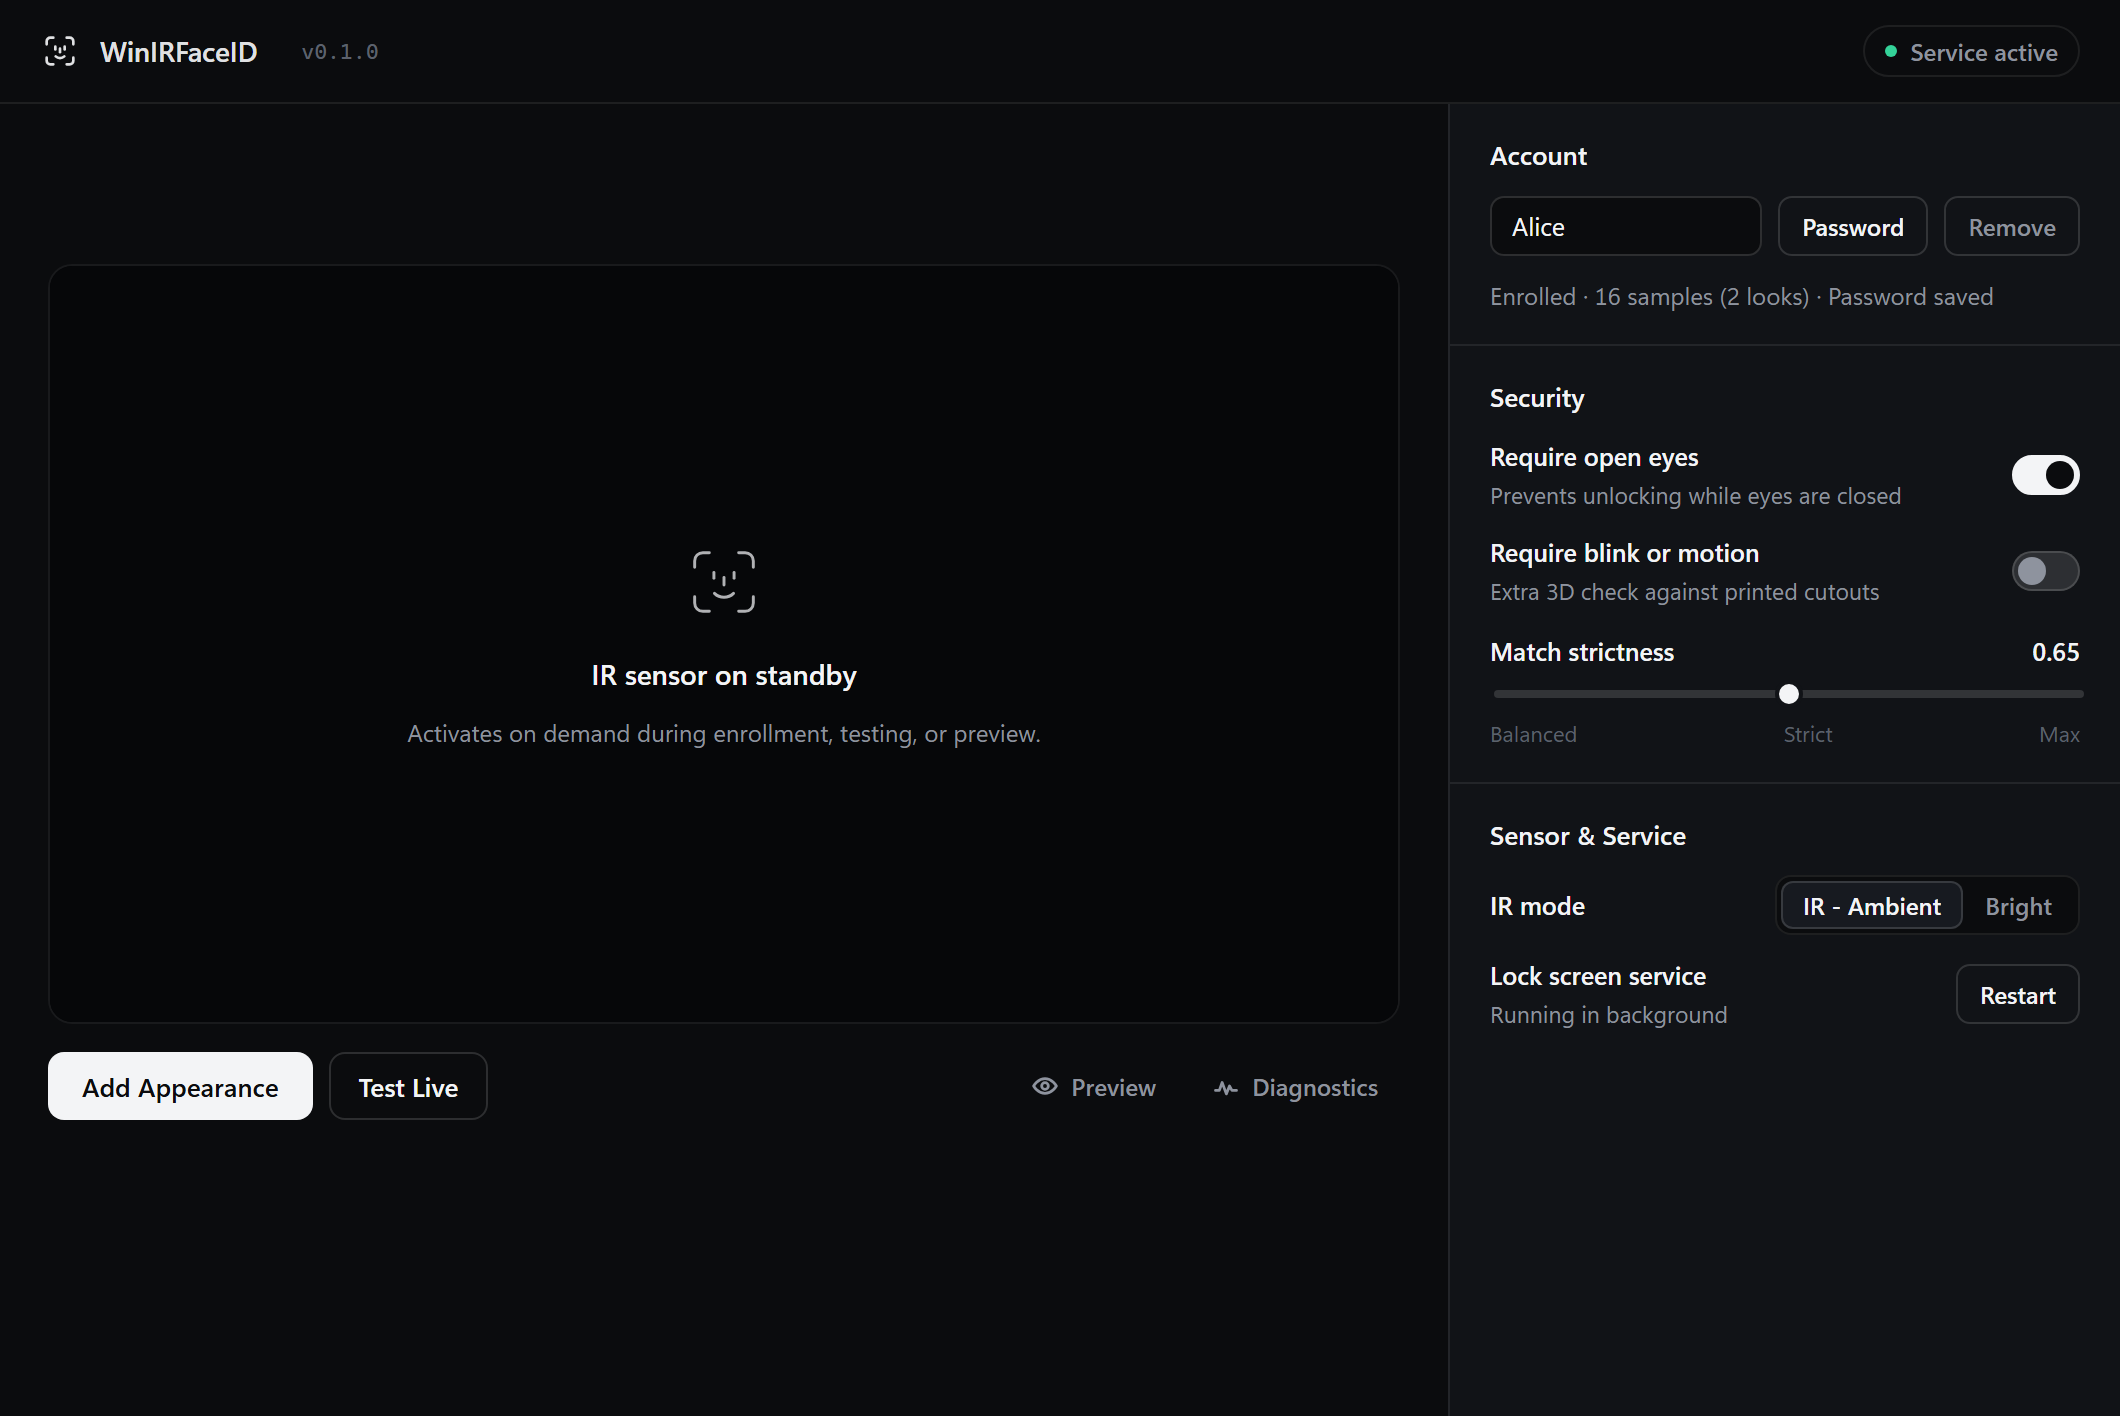
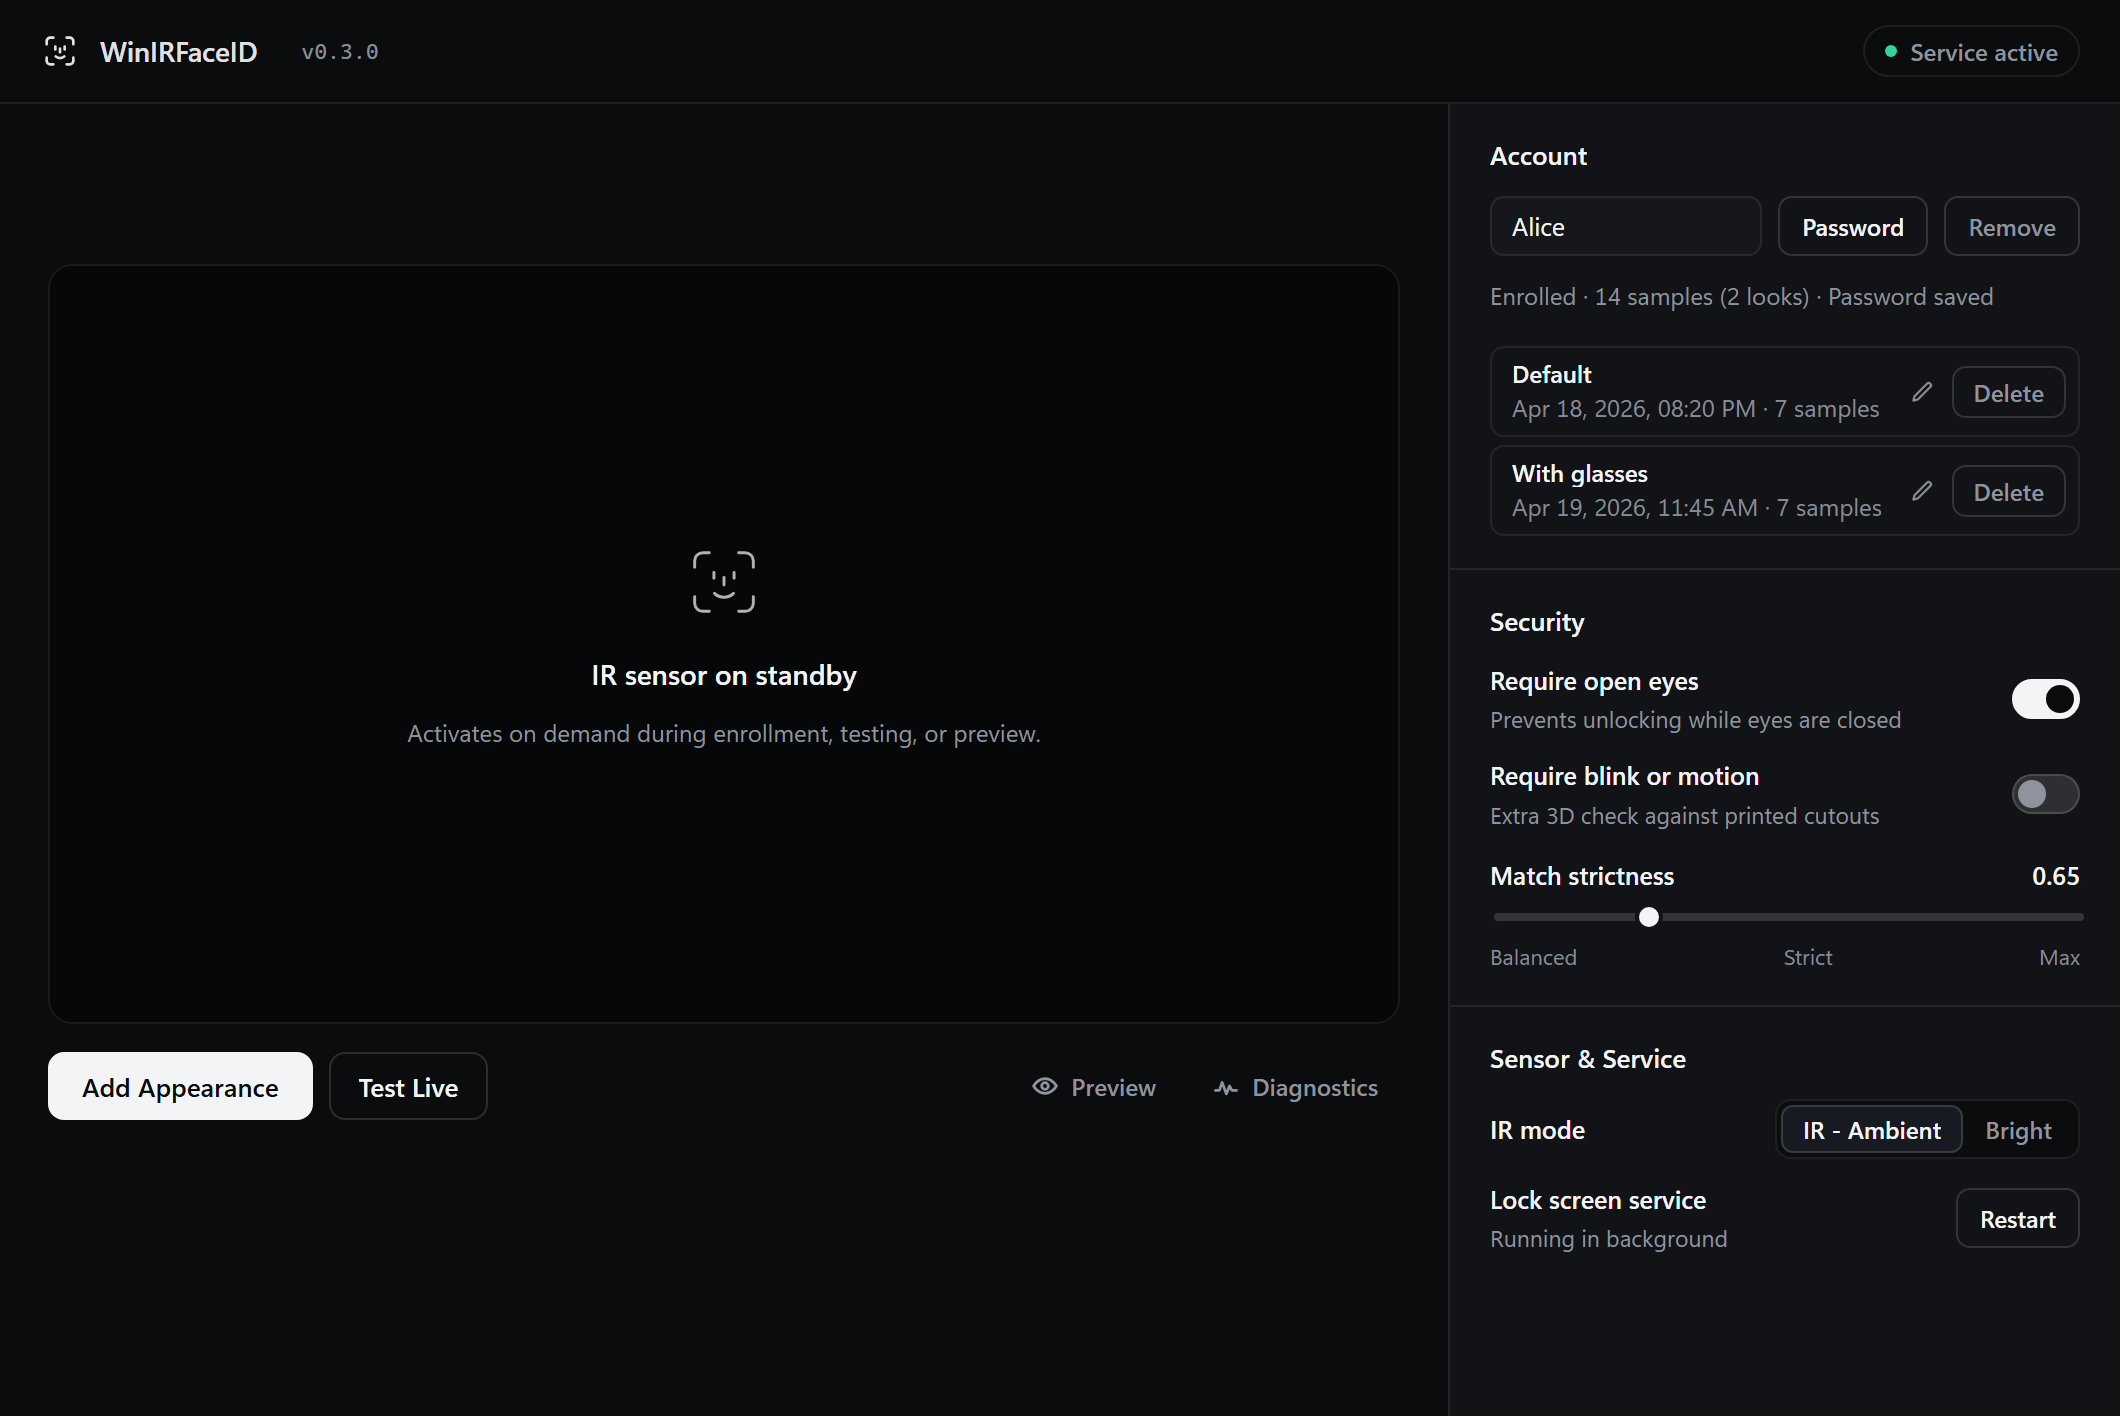
Polish v0.3.0 UX copy, update README, refresh screenshots, and bump version

diff --git a/engine/ui/app.js b/engine/ui/app.js
@@ -389,6 +389,13 @@
     }
     if (!prof) renderLooksList(user, []);
 
+    if (els.btnPassword) {
+      const needsPassword = Boolean(
+        prof && (prof.has_embeddings || prof.sample_count > 0) && !prof.has_password
+      );
+      els.btnPassword.dataset.needed = needsPassword ? "true" : "false";
+    }
+
     updateEnrollButton(mode, prof);
   }
 
@@ -556,8 +563,8 @@
     };
     const paneDescs = {
       running: configDirty ? "Restart required to apply settings" : "Running in background",
-      stopped: "Installed, currently stopped",
-      not_installed: "Install via scripts/install_service.ps1",
+      stopped: "Stopped · Lock screen sign-in paused",
+      not_installed: "Not installed · Run Install.bat for lock screen",
       unknown: "Unable to query Service Control Manager",
     };
 
@@ -569,9 +576,13 @@
       els.btnHeaderRestart.classList.remove("hidden");
       els.btnPaneRestart.textContent = "Apply & Restart";
       els.btnPaneRestart.classList.remove("hidden");
-    } else if (status === "running" || status === "stopped") {
+    } else if (status === "running") {
       els.btnHeaderRestart.classList.add("hidden");
       els.btnPaneRestart.textContent = "Restart";
+      els.btnPaneRestart.classList.remove("hidden");
+    } else if (status === "stopped") {
+      els.btnHeaderRestart.classList.add("hidden");
+      els.btnPaneRestart.textContent = "Start";
       els.btnPaneRestart.classList.remove("hidden");
     } else {
       els.btnHeaderRestart.classList.add("hidden");
@@ -1155,10 +1166,19 @@
         const doneAppend = Boolean(live.enroll && live.enroll.completed_append);
         if (doneUser) {
           const target = Math.max(1, Number((live.enroll && live.enroll.target) || 7));
-          const msg = doneAppend
-            ? `Appearance added for '${doneUser}'.`
-            : `Enrolled ${target} IR samples for '${doneUser}'.`;
-          showFeedback(msg, "ok", 5000);
+          const doneProf = findProfile(doneUser);
+          const needsPassword = !(doneProf && doneProf.has_password);
+          let msg;
+          let durationMs = 5000;
+          if (doneAppend) {
+            msg = `Appearance added for '${doneUser}'.`;
+          } else if (needsPassword) {
+            msg = `Enrolled ${target} IR samples for '${doneUser}'. Next: click Password to enable lock screen sign-in.`;
+            durationMs = 8000;
+          } else {
+            msg = `Enrolled ${target} IR samples for '${doneUser}'.`;
+          }
+          showFeedback(msg, "ok", durationMs);
           refreshBootstrapData();
         }
       }
@@ -1416,7 +1436,7 @@
   function openUpdateModal(info) {
     if (!els.updateModal || !info) return;
     closeCameraDropdown(false);
-    const current = info.current_version || (state.bootstrap && state.bootstrap.version) || "0.2.3";
+    const current = info.current_version || (state.bootstrap && state.bootstrap.version) || "0.3.0";
     const latest = info.latest_version || current;
     els.updateVersionLine.textContent = `v${current} -> v${latest}`;
 
@@ -1897,7 +1917,7 @@
         }
         if (typeof a.check_for_updates !== "function") return;
 
-        const current = (state.bootstrap && state.bootstrap.version) || "0.2.3";
+        const current = (state.bootstrap && state.bootstrap.version) || "0.3.0";
         els.btnVersion.disabled = true;
         els.btnVersion.textContent = "Checking...";
         try {

diff --git a/engine/ui/index.html b/engine/ui/index.html
@@ -25,7 +25,7 @@
           </svg>
           <span class="brand-name">WinIRFaceID</span>
         </button>
-        <button class="version-pill tabular" id="btnVersion" type="button" title="Check for updates">v0.1.1</button>
+        <button class="version-pill tabular" id="btnVersion" type="button" title="Check for updates">v0.3.0</button>
       </div>
 
       <div class="header-right">
@@ -425,7 +425,7 @@
       </div>
 
       <p class="modal-subtitle">
-        Stored locally with machine-scoped DPAPI encryption for <strong id="pwModalUser">User</strong>.
+        Stored locally with TPM 2.0 and machine-scoped DPAPI encryption for <strong id="pwModalUser">User</strong>.
       </p>
 
       <form id="passwordForm" class="modal-form">
@@ -485,7 +485,7 @@
         </div>
 
         <p class="modal-note">
-          For a Microsoft Account, enter your Microsoft Account password and keep Domain as <code>.</code>.
+          Enter your Windows or Microsoft Account password — not your Windows Hello PIN. Keep Domain as <code>.</code>.
         </p>
 
         <div class="modal-error hidden" id="pwModalError"></div>

diff --git a/engine/ui/style.css b/engine/ui/style.css
@@ -1197,6 +1197,17 @@ button:disabled {
   border-color: var(--border-strong);
 }
 
+#btnPassword[data-needed="true"] {
+  border-color: rgba(245, 158, 11, 0.34);
+  background: rgba(245, 158, 11, 0.08);
+  color: var(--amber);
+}
+
+#btnPassword[data-needed="true"]:hover:not(:disabled) {
+  border-color: rgba(245, 158, 11, 0.55);
+  background: rgba(245, 158, 11, 0.14);
+}
+
 .btn-xs {
   height: 26px;
   padding: 0 10px;

diff --git a/engine/__init__.py b/engine/__init__.py
@@ -1,5 +1,5 @@
 """Windows IR Face ID recognition engine."""
 
-__version__ = "0.2.3"
+__version__ = "0.3.0"
 REPO_URL = "https://github.com/al3ksh/win-ir-faceid"
 RELEASES_API_URL = "https://api.github.com/repos/al3ksh/win-ir-faceid/releases/latest"

diff --git a/README.md b/README.md
@@ -44,11 +44,11 @@ WinIRFaceID is designed to be auditable, isolated, and safe to run on a daily-dr
 
 ## Features & UX Highlights
 
-- **Native Windows 11 Lock Screen Integration:** Implements `ICredentialProviderCredential3::GetBitmapBufferValue` for alpha-transparent white Fluent icons on both the sign-in options tile and the selected hero tile. On `Win + L`, background IR scanning starts automatically even while PIN or Fingerprint is selected, and cancels immediately if you sign in another way.
+- **Native Windows 11 Lock Screen Integration:** Implements `ICredentialProviderCredential3::GetBitmapBufferValue` and `ICredentialProviderCredentialEvents3::SetFieldBitmapBuffer` for 32+ FPS alpha-transparent white Fluent Look animations on the lock screen hero tile (plus the sign-in options tile icon). On `Win + L`, the session stays locked with the IR LED off until you dismiss the lock curtain (e.g. Space or click), then scans immediately — even while PIN or Fingerprint is selected — and cancels right away if you sign in another way.
 - **Local & Microsoft Account Support:** Works with local Windows accounts (`Domain = .`) and Microsoft Accounts (`MicrosoftAccount\...` resolved automatically from your Windows account password).
-- **Guided Enrollment:** Enrollment walks you through 7 head poses (center, left, right, relaxed, chin up, chin down, back to center) with an animated pose guide and a hold-still ring; a sample is only captured after your face has been steady and live for a moment.
-- **Alternate Appearances (Glasses, Beard, Lighting):** Clicking **Add Appearance** enrolls another look (7 more IR captures, up to 32 samples per user) so recognition stays reliable both with and without prescription glasses. Each look is listed under **Account** with its date and can be deleted individually. *(Near-IR passes through most clear prescription lenses; IR-blocking sunglasses will block 850nm light.)*
-- **Minimalist Edge WebView2 Desktop App:** Keeps the IR camera and flood LED on standby until you actively start enrollment, live testing, or preview. Includes live SVG corner-bracket face tracking, a collapsible monospace IR diagnostics strip (`IR Δ`, `BG`, `3D`, `Eyes`), live match scores, and 1-click SHA-256-verified delta updates (~350 KB) from GitHub Releases. Security settings (match strictness 0.60–0.80, liveness options) apply to the service immediately — no restart needed.
+- **Guided Enrollment:** Enrollment walks you through 7 head poses (center, left, right, relaxed, chin up, chin down, back to center) with an on-viewport wireframe and chevron guide, live head-position and head-pose angle awareness (yaw/pitch calibrated to your neutral pose), and smooth ~1.2s aligned capture pacing; a sample is only captured once your face is centered, properly angled, steady, and live.
+- **Alternate Appearances (Glasses, Beard, Lighting):** Clicking **Add Appearance** enrolls another look (7 more IR captures, up to 32 samples per user) so recognition stays reliable both with and without prescription glasses. Each look is listed under **Account** with its date and can be renamed inline or deleted individually. *(Near-IR passes through most clear prescription lenses; IR-blocking sunglasses will block 850nm light.)*
+- **Minimalist Edge WebView2 Desktop App:** Keeps the IR camera and flood LED on standby until you actively start enrollment, live testing, or preview. Includes mirrored natural preview with side-by-side **Split `RGB | IR`** camera preview (with automatic single-IR fallback), live SVG corner-bracket face tracking, a collapsible monospace IR diagnostics strip (`IR Δ`, `BG`, `3D`, `Eyes`), live match scores, a dismissible BitLocker drive `C:` encryption warning modal, and 1-click SHA-256-verified delta updates (~350 KB) from GitHub Releases. Security settings (match strictness 0.60–0.80, liveness options) apply to the service immediately — no restart needed.
 
 <details>
 <summary>Screenshot: Local-only DPAPI Logon Password modal</summary>
@@ -107,8 +107,7 @@ win-ir-faceid/
 
 - **OS:** Windows 11 x64 with a Windows Hello IR camera (hardware IR sensor + 850nm illuminator)
 - **Runtime:** Microsoft Edge WebView2 Runtime (pre-installed on Windows 11)
-- **Python:** none needed — setup installs a private CPython 3.11 x64 into `Program Files\WinIRFaceID
-untime\python` (bundled in releases; downloaded from the official python.org NuGet package for source installs). Your own Python installs are never used or modified. *(Developing from source still needs a Python 3.11 x64 of your own for the dev `.venv`.)*
+- **Python:** none needed — setup installs a private CPython 3.11 x64 into `Program Files\WinIRFaceID\runtime\python` (bundled in releases; downloaded from the official python.org NuGet package for source installs). Your own Python installs are never used or modified. *(Developing from source still needs a Python 3.11 x64 of your own for the dev `.venv`.)*
 - **Build Tools (Source Build only):** Visual Studio 2022 / 2026 (Desktop development with C++ + CMake) to compile the C++ Credential Provider and Service Host
 
 ---
